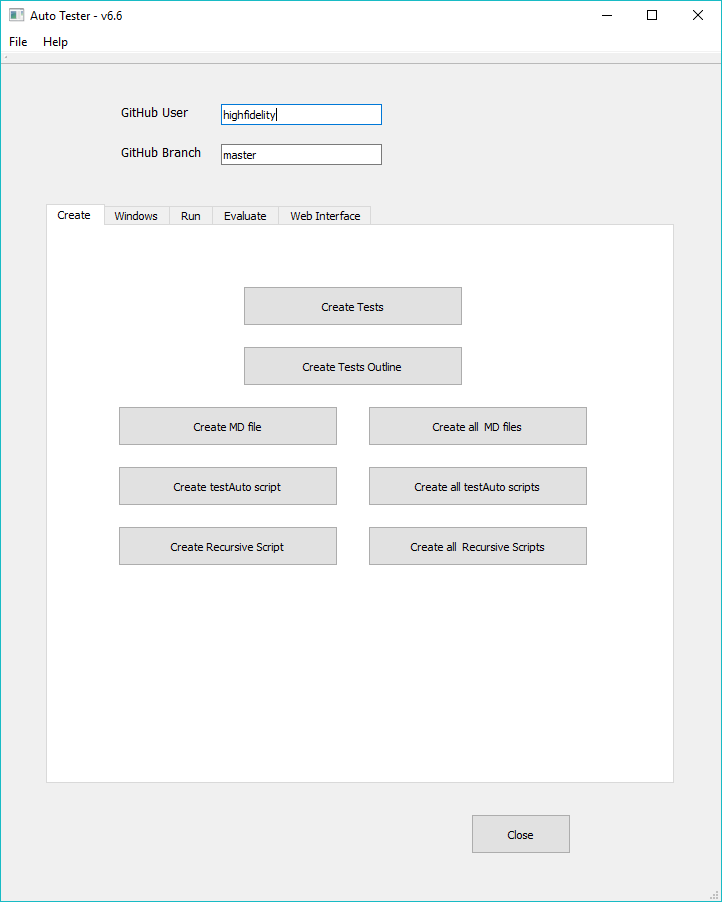
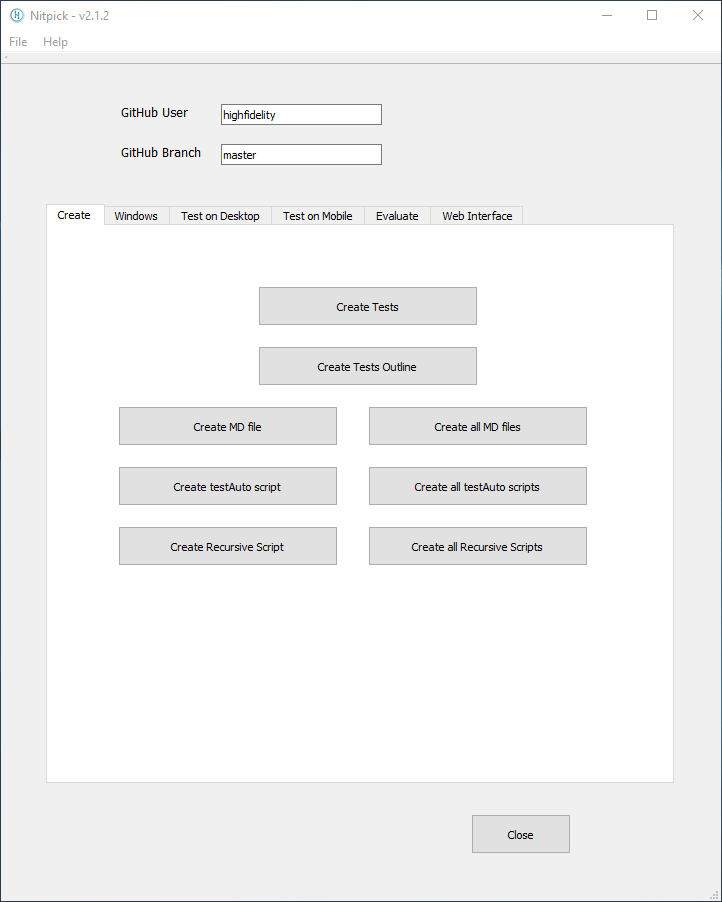
Updated manual to include Android.

diff --git a/tools/nitpick/README.md b/tools/nitpick/README.md
@@ -1,18 +1,47 @@
 # nitpick
 
-Nitpick is a stand alone application that provides a mechanism for regression testing.  The general idea is simple: 
-* Each test folder has a script that produces a set of snapshots.
-* The snapshots are compared to a 'canonical' set of images that have been produced beforehand.
+Nitpick is a stand alone application that provides a mechanism for regression testing.  The general idea is simple:  
+* Each test folder has a script that produces a set of snapshots.  
+* The snapshots are compared to a 'canonical' set of images that have been produced beforehand.  
 * The result, if any test failed, is a zipped folder describing the failure.
 
-Nitpick has 5 functions, separated into separate tabs:
+Nitpick has 6 functions, separated into separate tabs:
 
 1. Creating tests, MD files and recursive scripts
 1. Windows task bar utility (Windows only)
-1. Running tests
+1. Running tests on desktop (i.e. locally)
+1. Running tests on an attached device
 1. Evaluating the results of running tests
 1. Web interface
-
+## Creating Installers (for developers)
+Nitpick is built as part of the High Fidelity build.
+### Creating installers
+#### Windows
+Note that X.X.X is the latest version.
+1.  Verify that 7Zip is installed.
+1.  cd to the `build\tools\nitpick\Release` directory
+1.  Delete any existing installers (named nitpick-installer-vX.X.X.exe)
+1.  Select all, right-click and select 7-Zip->Add to archive...
+1.  Set Archive format to 7z
+1.  Check "Create SFX archive
+1.  Enter installer name (i.e. `nitpick-installer-vX.X.X.exe`)
+1.  Click "OK"
+1.  Copy created installer to https://hifi-qa.s3.amazonaws.com/nitpick/Windows/nitpick-installer-vX.X.X.exe: aws s3 cp nitpick-installer-v1.2.exe s3://hifi-qa/nitpick/Mac/nitpick-installer-vX.X.X.exe
+#### Mac
+These steps assume the hifi repository has been cloned to `~/hifi`.
+1.  (first time) Install brew
+    In a terminal: `/usr/bin/ruby -e "$(curl -fsSL https://raw.githubusercontent.com/Homebrew/install/master/install)`
+1.  (First time) install create-dmg:
+    In a terminal: `brew install create-dmg`
+1.  In a terminal: cd to the `build/tools/nitpick/Release` folder
+1.  Copy the quazip dynamic library (note final period):
+    In a terminal: `cp ~/hifi/build/ext/Xcode/quazip/project/lib/libquazip5.1.dylib .`
+1.  Change the loader instruction to find the dynamic library locally
+    In a terminal: `install_name_tool -change ~/hifi/build/ext/Xcode/quazip/project/lib/libquazip5.1.dylib libquazip5.1.dylib nitpick`
+1.  Delete any existing disk images. In a terminal: `rm *.dmg`
+1.  Create installer (note final period).In a terminal: `create-dmg --volname nitpick-installer-vX.X.X nitpick-installer-vX.X.X.dmg .`  
+    Make sure to wait for completion.
+1.  Copy created installer to AWS: `~/Library/Python/3.7/bin/aws s3 cp nitpick-installer-vX.X.X.dmg s3://hifi-qa/nitpick/Mac/nitpick-installer-vX.X.X.dmg`
 ## Installation
 `nitpick` is packaged with High Fidelity PR and Development builds.
 ### Windows
@@ -32,6 +61,8 @@ Nitpick has 5 functions, separated into separate tabs:
     1.  Copy the downloaded file to (for example) **C:\adb** and extract in place.  
         Verify you see *adb.exe* in **C:\adb\platform-tools\\**.
     1.  After installation - add the path to adb.exe to the Windows PATH environment variable (note that it is in *adb\platform-tools*).
+1.  `nitpick` is included in the High Fidelity installer but can also be downloaded from:  
+[here](<https://hifi-qa.s3.amazonaws.com/nitpick/Windows/nitpick-installer-vX.X.X.dmg>).* 
 ### Mac
 1.  (first time) Install brew
     In a terminal:  
@@ -61,7 +92,13 @@ This is needed because the Mac Python supplied no longer links with the deprecat
     1.  Install the latest release of Boto3 via pip:  pip3 install boto3  
 1.  (First time)Install adb (the Android Debug Bridge) - in a terminal:  
     `brew cask install android-platform-tools`
+1.  `nitpick` is included in the High Fidelity installer but can also be downloaded from:  
+[here](<https://hifi-qa.s3.amazonaws.com/nitpick/Mac/nitpick-installer-vX.X.X.dmg>).* 
 # Usage
+## Menu
+File->Close: Closes `nitpick`  
+Help->About: Provides the build date  
+Help->Online readme: Links to this file on GitHub
 ## Create
 ![](./Create.PNG)
 
@@ -139,15 +176,15 @@ nitpick.runRecursive();
 In this case all recursive scripts, from the selected folder down, are created.
 
 Running this function in the tests root folder will create (or update) all the recursive scripts.
-## Windows (only)
+## Windows (only on Windows)
 ![](./Windows.PNG)
 
 This tab is Windows-specific.  It provides buttons to hide and show the task bar.
 
 The task bar should be hidden for all tests that use the primary camera.  This is required to ensure that the snapshots are the right size.
-## Run
-![](./Run.PNG)
-The run tab is used to run tests in automatic mode.  The tests require the location of a folder to store files in; this folder can safely be re-used for any number of runs (the "Working Folder"). 
+## Test on Desktop
+![](./TestOnDesktop.PNG)
+The TestOnDesktop tab is used to run tests on desktop in automatic mode.  The tests require the location of a folder to store files in; this folder can safely be re-used for any number of runs (the "Working Folder").  
 The test script that is run is `https://github.com/highfidelity/hifi_tests/blob/master/tests/testRecursive.js`.  The user can use a different branch' or even repository, if required.  
 Tests can be run server-less, or with the local host.  In the second case, the domain-server and assignment-clients are run before starting Interface.  
 The default is to run the latest build.  The user can select a specific build or PR if desired.
@@ -167,6 +204,24 @@ The working folder will ultimately contain the following:
 1.  The `dev-builds.xml` file, if it was downloaded.  
 1.  The HighFidelity installer.  Note that this is always named `HighFidelity-Beta-latest-dev` so as not to store too many installers over time.  
 1.  A log file describing the runs.  This file is appended to after each run.
+## Test on Mobile
+![](./TestOnMobile.PNG)
+The TestOnMobile tab is used to run tests on a mobile device connected to the desktop running `nitpick`.  
+The test script that is run is `https://github.com/highfidelity/hifi_tests/blob/master/tests/testRecursive.js`.  The user can use a different branch' or even repository, if required.  
+Tests can be run server-less, or with the local host.  In the second case, the domain-server and assignment-clients are run before starting Interface.  
+The default is to run the latest build.  The user can select a specific build or PR if desired.  
+### Set Working Folder  
+This mode needs a working folder to store downloads and temporary files.  All other commands are disabled until this folder has been selected.
+### Connect Device
+Clicking this button will initiate and attempt to connect to a connected device.  If successful, the following will appear (as appropriate for the device):
+![](./ConnectedDevice.PNG)
+
+### Download APK
+Leaving the Run Latest checkbox checked will download the latest APK.  Unchecking will enable entering a URL to a desired APK (such as a PR build).  
+Clicking the Download APK button will set the status to *Downloading installer*; this status will change to *Installer Download complete" when the download has completed.  The APK will be located in the working folder.
+### Installing APK
+After download it is possible to install the APK on the selected device.  
+When installation completes, the status will be *Instalaltion complete*
 ## Evaluate
 ![](./Evaluate.PNG)
 
